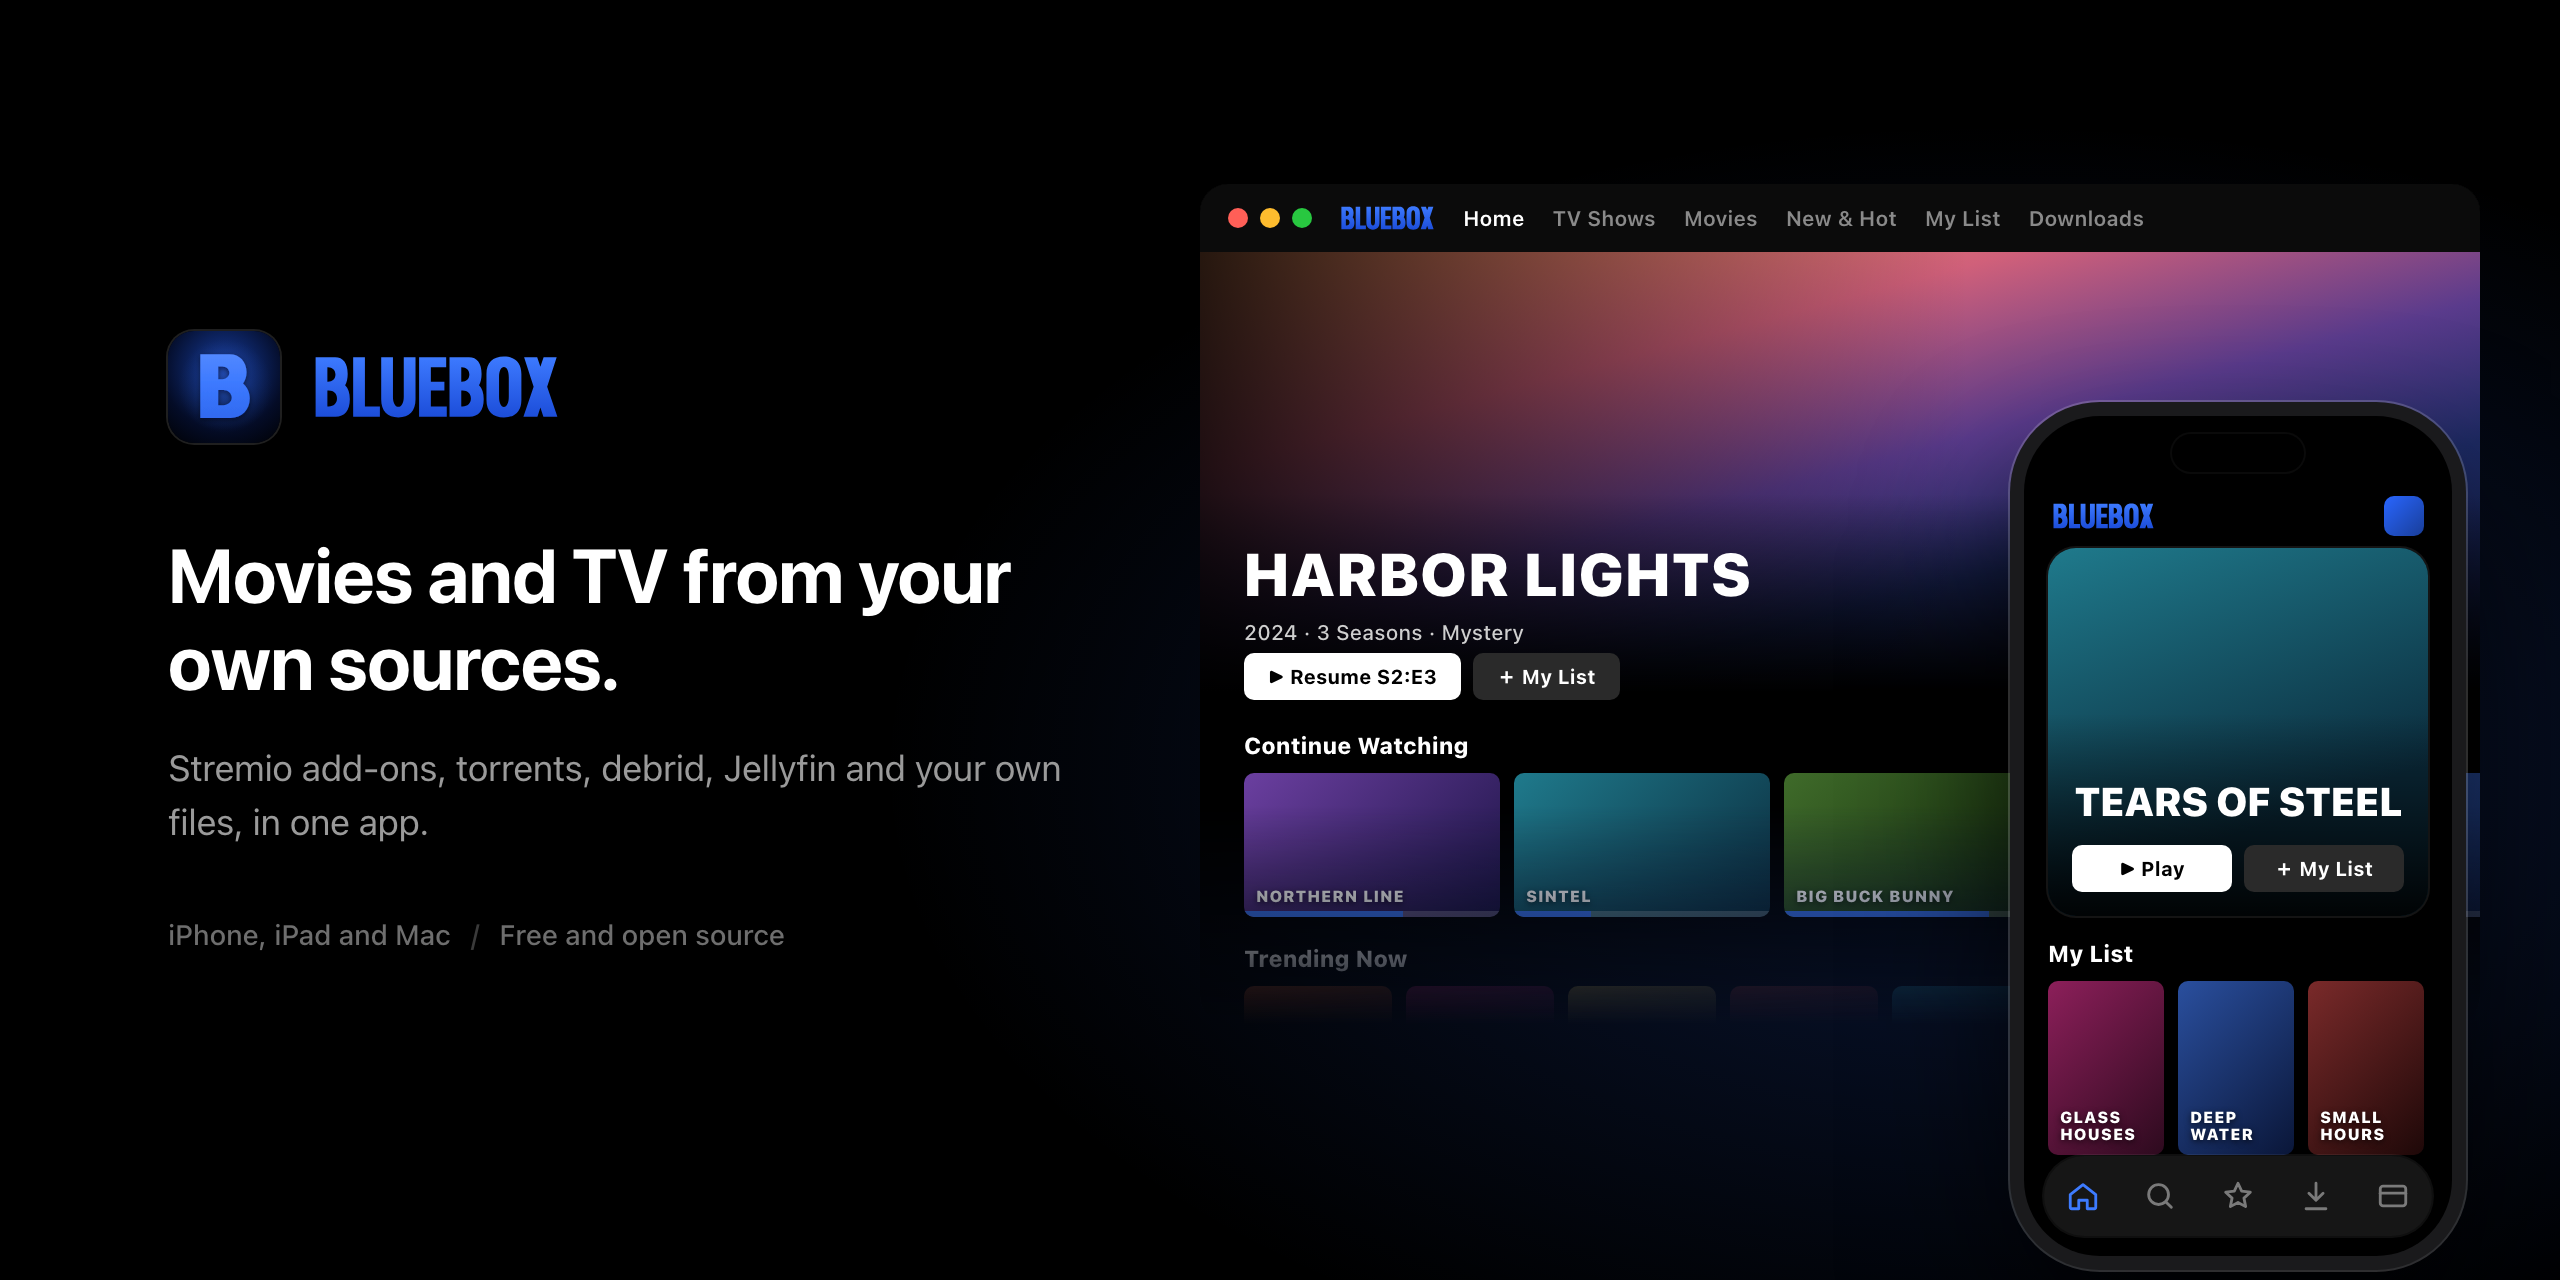
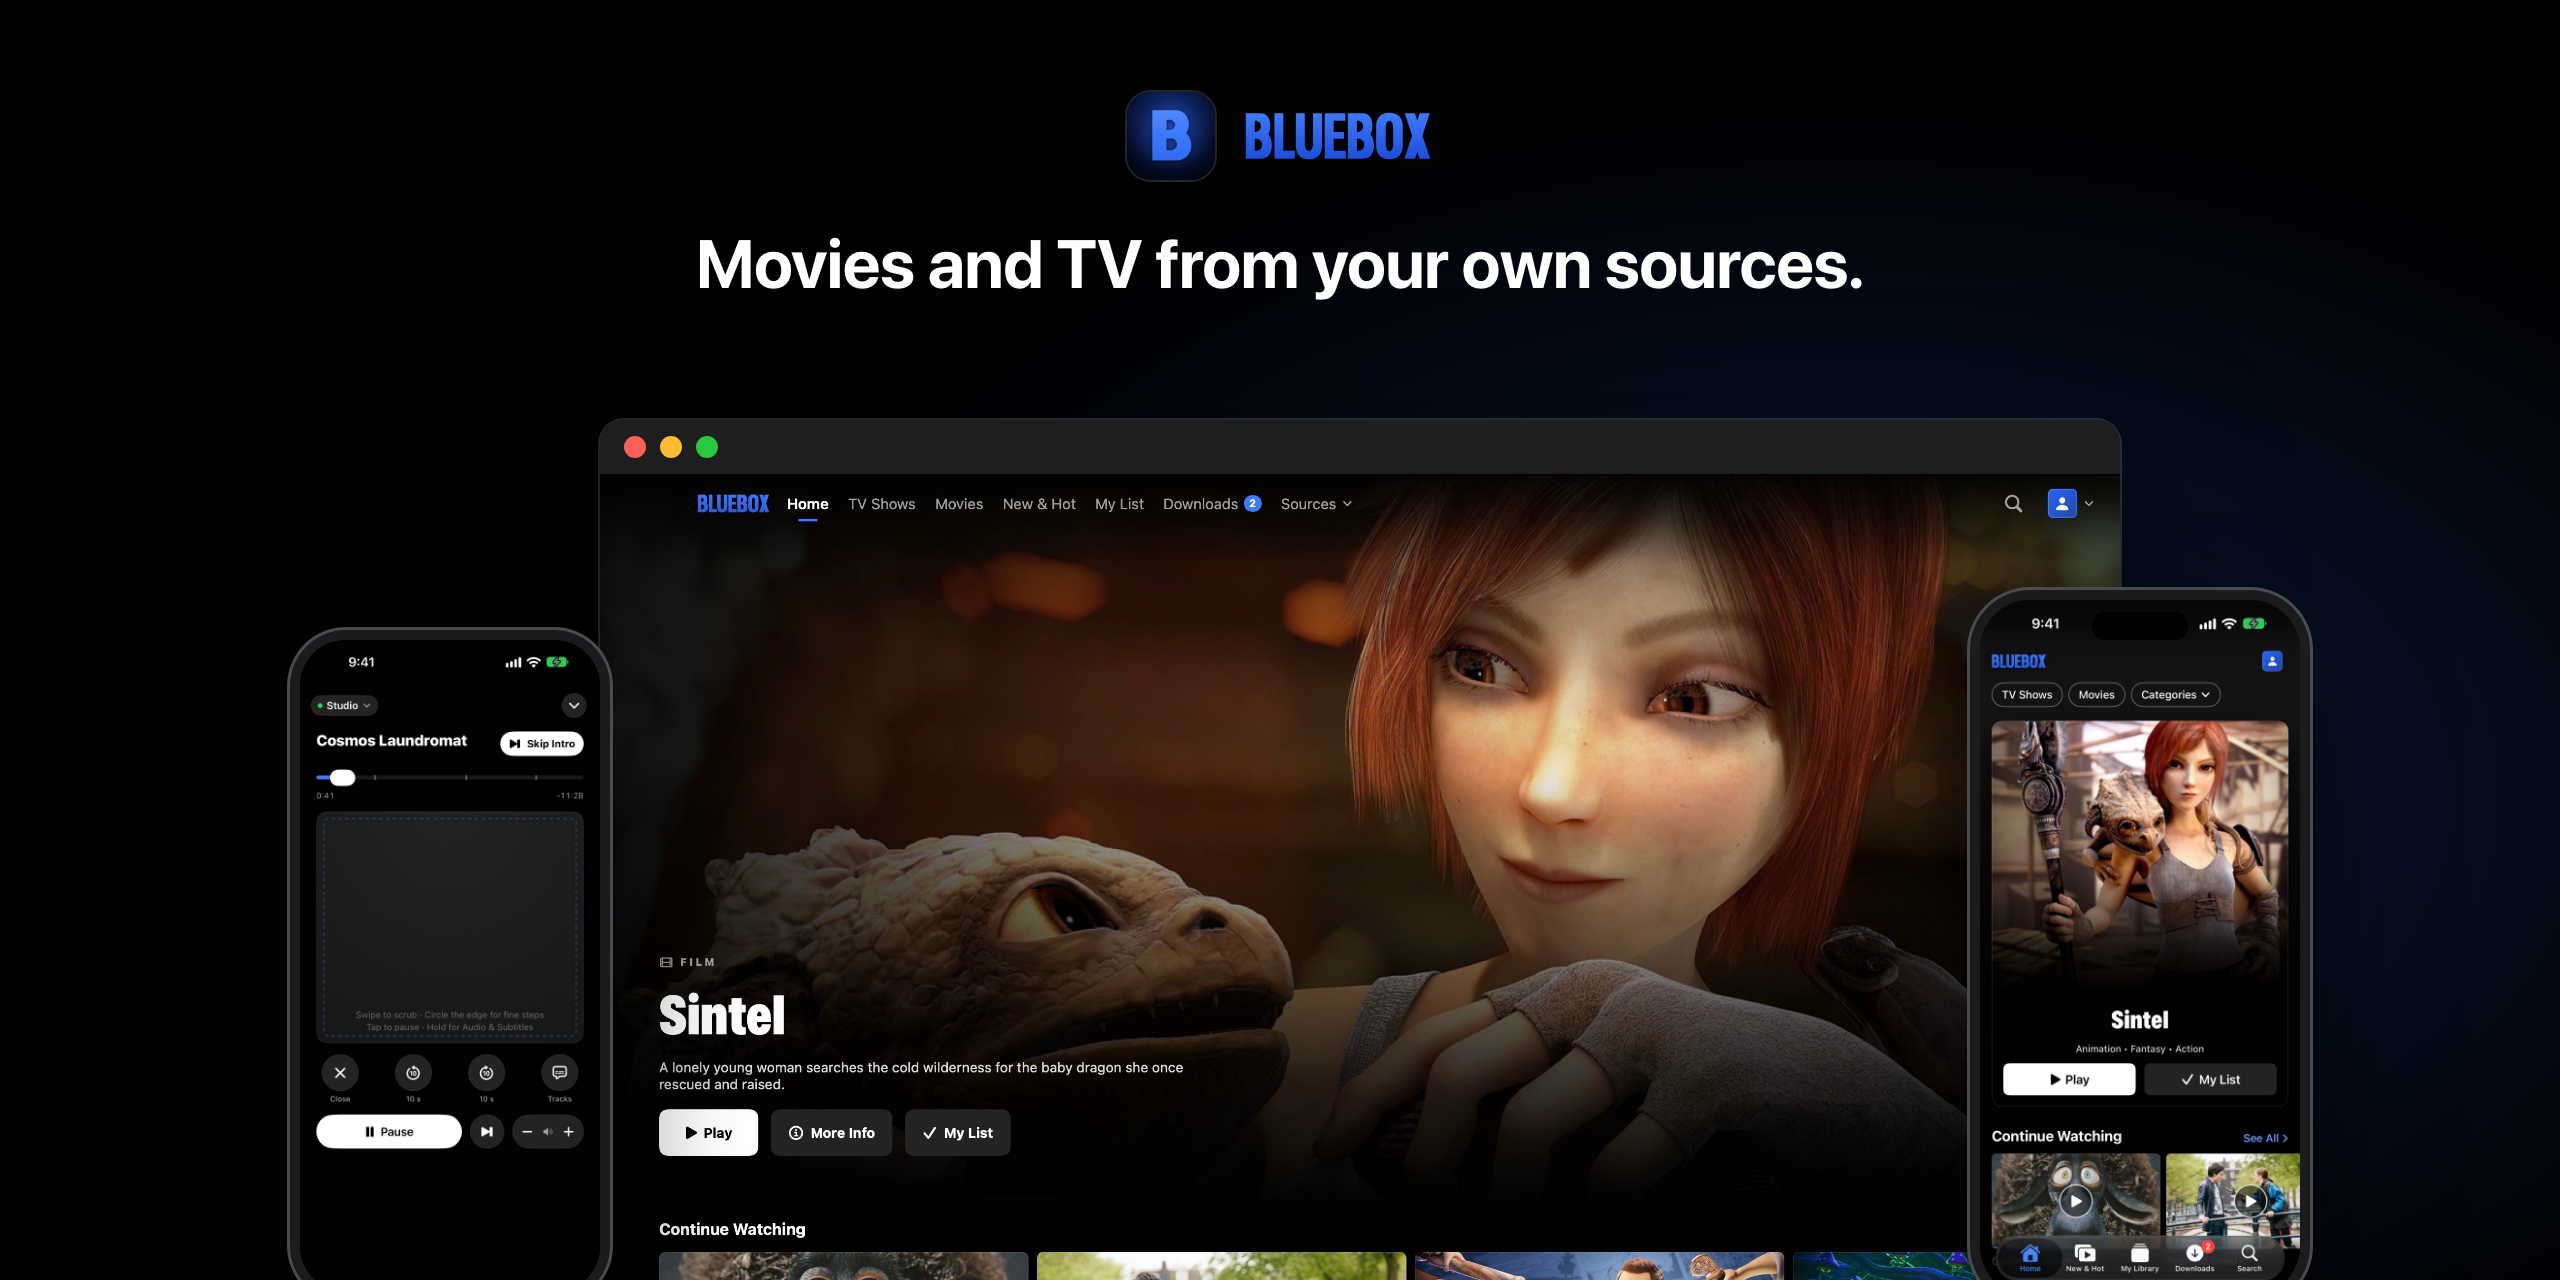
README and docs: graphics of the app from real screenshots

diff --git a/docs/sources.html b/docs/sources.html
@@ -45,6 +45,7 @@
 <p class="eyebrow">Using Bluebox</p>
 <h1>Sources</h1>
 <p class="lede">Bluebox doesn't host anything. Everything it plays comes from a source you add: Stremio add-ons, a debrid service, your media server, a network folder or files on your device.</p>
+<figure class="shot"><img src="images/sources.png" alt="Settings › Sources and Torrents &amp; Debrid in Bluebox on the Mac" width="1920" height="1080" loading="lazy"></figure>
 <nav class="toc" aria-label="On this page"><b>On this page</b><ol><li><a href="#how-play-picks">How Play picks a stream</a></li><li><a href="#addons">Stremio add-ons</a></li><li><a href="#debrid">Debrid services</a></li><li><a href="#torrents">Torrents</a></li><li><a href="#media-servers">Jellyfin, Emby and Plex</a></li><li><a href="#webdav">WebDAV folders</a></li><li><a href="#smb">SMB (Windows) shares</a></li><li><a href="#local-files">Files and folders</a></li><li><a href="#direct-links">Direct links</a></li><li><a href="#open-movies">Open Movies</a></li><li><a href="#downloads">Downloads</a></li><li><a href="#catalog">Catalog, ratings and Trakt</a></li></ol></nav>
 <h2 id="how-play-picks">How Play picks a stream<a class="anchor" href="#how-play-picks" aria-label="Link to this section">#</a></h2>
 <p>When you press Play on a catalog title, Bluebox looks in this order:</p>
@@ -143,6 +144,7 @@
 
 <h2 id="downloads">Downloads<a class="anchor" href="#downloads" aria-label="Link to this section">#</a></h2>
 <p>Download films and episodes to watch offline. A downloaded copy is always used first when you press Play.</p>
+<figure class="shot"><img src="images/downloads.png" alt="Downloads on the Mac and iPhone: two coming in, four finished" width="1920" height="1080" loading="lazy"></figure>
 <ul>
   <li><strong>A film:</strong> the Download button on its page. To pick the release, touch and hold (or right-click) one in Releases.</li>
   <li><strong>A season:</strong> the ↓ button beside the season picker has Download Season, Unwatched Only, As One Season Pack and Download Rules…. A progress line under the picker has Pause and Cancel.</li>

diff --git a/docs/index.html b/docs/index.html
@@ -51,7 +51,7 @@
   </div>
   <div class="meta">iOS 18 and later · macOS 15 and later on Apple silicon · MIT licence · <a href="https://github.com/BCYAYAY14/bluebox/releases/latest">Latest release</a></div>
 </section>
-<div class="banner"><img src="banner.png" alt="Bluebox on iPhone, iPad and Mac: a home screen of movie and TV posters"></div>
+<div class="banner"><img src="banner.png" alt="Bluebox on Mac and iPhone: Home with Sintel, and the iPhone remote"></div>
 
 <section class="section">
   <h2>What it does</h2>
@@ -67,6 +67,7 @@
     <a class="card" href="privacy.html"><h3>Private by default</h3><p>No account needed, no analytics. Every feature that could feel invasive has its own switch.</p><span class="go">Privacy →</span></a>
     <a class="card" href="faq.html"><h3>Stuck?</h3><p>Install warnings, streams that won't start, debrid errors and the remote, answered step by step.</p><span class="go">FAQ →</span></a>
   </div>
+  <figure class="shot"><img src="images/colours.png" alt="Settings › Appearance with the ten theme colours, and Settings › Language" width="1920" height="1080" loading="lazy"><figcaption>Ten theme colours, with the app icon to match, and nine languages: Settings › Appearance and Language.</figcaption></figure>
 </section>
 
 <section class="section" id="install">

diff --git a/docs/player.html b/docs/player.html
@@ -45,6 +45,7 @@
 <p class="eyebrow">Using Bluebox</p>
 <h1>The player</h1>
 <p class="lede">Formats, subtitles, audio, picture tools, skipping, AirPlay, opening videos in another app, and every keyboard shortcut.</p>
+<figure class="shot"><img src="images/stats.png" alt="Stats for nerds: a live graph and the video, buffer and torrent details over a film" width="1920" height="1080" loading="lazy"><figcaption>Stats for nerds: in the player, open Tools and turn on Stats. Copy Diagnostics puts a report on the clipboard for bug reports.</figcaption></figure>
 <nav class="toc" aria-label="On this page"><b>On this page</b><ol><li><a href="#formats">Formats and the two engines</a></li><li><a href="#controls">Controls</a></li><li><a href="#skipping">Skip intro, recap and credits</a></li><li><a href="#subtitles">Subtitles</a></li><li><a href="#audio">Audio</a></li><li><a href="#picture">Picture and tools</a></li><li><a href="#airplay">AirPlay and picture in picture</a></li><li><a href="#external-players">Open in another player</a></li><li><a href="#shortcuts">Keyboard shortcuts (Mac)</a></li></ol></nav>
 <h2 id="formats">Formats and the two engines<a class="anchor" href="#formats" aria-label="Link to this section">#</a></h2>
 <p>Bluebox has two video engines and picks one for each video:</p>

diff --git a/docs/watch-party.html b/docs/watch-party.html
@@ -45,6 +45,7 @@
 <p class="eyebrow">Using Bluebox</p>
 <h1>Watch Party</h1>
 <p class="lede">Watch in step with friends, each on their own device and their own copy, with a lobby, chat and reactions.</p>
+<figure class="shot"><img src="images/party.png" alt="A Watch Party invitation: Sam invited you to Sintel, with who&#x27;s ready and your own copy found" width="1920" height="1080" loading="lazy"></figure>
 <nav class="toc" aria-label="On this page"><b>On this page</b><ol><li><a href="#how-it-works">How it works</a></li><li><a href="#host-setup">What the host needs</a></li><li><a href="#start">Start a party</a></li><li><a href="#join">Join a party</a></li><li><a href="#during">During the party</a></li><li><a href="#party-troubleshooting">If joining fails</a></li></ol></nav>
 <h2 id="how-it-works">How it works<a class="anchor" href="#how-it-works" aria-label="Link to this section">#</a></h2>
 <p>A party runs on the host's own Supabase project (their “Bluebox server”). Nothing is streamed between you: everyone plays their <strong>own copy</strong> of the film from their own sources, and Bluebox keeps the copies in step. Before it starts, each person's copy is found; the party pauses while someone catches up.</p>

diff --git a/docs/remote.html b/docs/remote.html
@@ -45,6 +45,7 @@
 <p class="eyebrow">Using Bluebox</p>
 <h1>iPhone remote</h1>
 <p class="lede">Use your iPhone as a touch-pad remote for Bluebox on your Mac: browse, open a title, play, skip and pick tracks, without looking up from the couch.</p>
+<figure class="shot"><img src="images/remote.png" alt="The iPhone remote, with Skip Intro, in front of a title page on the Mac" width="1920" height="1080" loading="lazy"></figure>
 <nav class="toc" aria-label="On this page"><b>On this page</b><ol><li><a href="#setup">Set it up</a></li><li><a href="#screen">What the remote shows</a></li><li><a href="#gestures">Gestures</a></li><li><a href="#playing">While something plays</a></li><li><a href="#remote-troubleshooting">If it won&#x27;t connect</a></li></ol></nav>
 <h2 id="setup">Set it up<a class="anchor" href="#setup" aria-label="Link to this section">#</a></h2>
 <p>The remote talks to your Mac through your own Supabase project, so both devices need to be signed in to the same account. They don't need to be on the same Wi-Fi.</p>

diff --git a/docs/profiles.html b/docs/profiles.html
@@ -45,6 +45,7 @@
 <p class="eyebrow">Using Bluebox</p>
 <h1>Profiles and Kids</h1>
 <p class="lede">Give everyone in the house their own lists and progress, set maturity limits for children, and lock profiles and Settings with a PIN.</p>
+<figure class="shot"><img src="images/profiles.png" alt="Who&#x27;s Watching with a Kids profile, and Settings › Profiles" width="1920" height="1080" loading="lazy"></figure>
 <nav class="toc" aria-label="On this page"><b>On this page</b><ol><li><a href="#profiles">Profiles</a></li><li><a href="#maturity">Maturity limits</a></li><li><a href="#kids">Kids profiles</a></li><li><a href="#pin">PIN locks</a></li></ol></nav>
 <h2 id="profiles">Profiles<a class="anchor" href="#profiles" aria-label="Link to this section">#</a></h2>
 <p>Each profile has its own My List, watch progress and Continue Watching, languages, subtitle style, equaliser, Autoplay Next Episode, statistics and Spoiler Guard. Sources, downloads and device settings are shared by everyone on the device.</p>

diff --git a/docs/site.css b/docs/site.css
@@ -109,6 +109,11 @@ details > div > :first-child { margin-top: 0; }
 .hero .meta { margin-top: 14px; font-size: 14px; color: var(--text3); }
 .banner { max-width: 1100px; margin: 24px auto 0; padding: 0 20px; }
 .banner img { width: 100%; border-radius: 16px; border: 1px solid var(--line); display: block; }
+/* A feature graphic at the top of a page or section (images/, drawn from real screenshots) */
+.shot { margin: 20px 0 24px; }
+.shot img { width: 100%; height: auto; border-radius: 14px; border: 1px solid var(--line); display: block; }
+.shot figcaption { font-size: 14px; color: var(--text3); margin-top: 8px; }
+.section .shot { margin-top: 28px; }
 .section { max-width: 1180px; margin: 0 auto; padding: 56px 20px 0; }
 .section > h2 { font-size: 30px; margin: 0 0 6px; letter-spacing: -.01em; }
 .section > p.sub { color: var(--text2); margin: 0 0 24px; font-size: 17px; }

diff --git a/README.md b/README.md
@@ -22,6 +22,24 @@ Bluebox is a free, open-source movie and TV app for iPhone, iPad and Mac, styled
 
 **New here?** The [documentation](https://bcyayay14.github.io/bluebox/) covers installing, adding sources, the player, the remote and Watch Party, and the [Help and FAQ](https://bcyayay14.github.io/bluebox/faq.html) page walks through what to do when something goes wrong.
 
+## Take a look
+
+[![Plays what you bring: Settings › Sources and Torrents & Debrid on the Mac](docs/images/sources.png)](https://bcyayay14.github.io/bluebox/sources.html)
+
+[![Watch Party: a friend's invitation, with who's ready and their own copy found](docs/images/party.png)](https://bcyayay14.github.io/bluebox/watch-party.html)
+
+[![Your iPhone drives the Mac: the remote with Skip Intro in front of a title page](docs/images/remote.png)](https://bcyayay14.github.io/bluebox/remote.html)
+
+[![Stats for nerds: the live graph, video, buffer and torrent details over a film](docs/images/stats.png)](https://bcyayay14.github.io/bluebox/player.html)
+
+[![Profiles and Kids: Who's Watching, and Settings › Profiles](docs/images/profiles.png)](https://bcyayay14.github.io/bluebox/profiles.html)
+
+[![Your colour, your language: Settings › Appearance and Language](docs/images/colours.png)](https://bcyayay14.github.io/bluebox/)
+
+[![Downloads on the Mac and iPhone](docs/images/downloads.png)](https://bcyayay14.github.io/bluebox/sources.html#downloads)
+
+<sub>Screenshots of Bluebox with Blender Studio's open films (Creative Commons), artwork from TMDB.</sub>
+
 ## iPhone and iPad
 
 **AltStore, SideStore or Feather:** tap **[Add to AltStore](https://bcyayay14.github.io/bluebox/add.html?to=altstore)** on your iPhone. The [add page](https://bcyayay14.github.io/bluebox/add.html) also has SideStore and Feather buttons.
